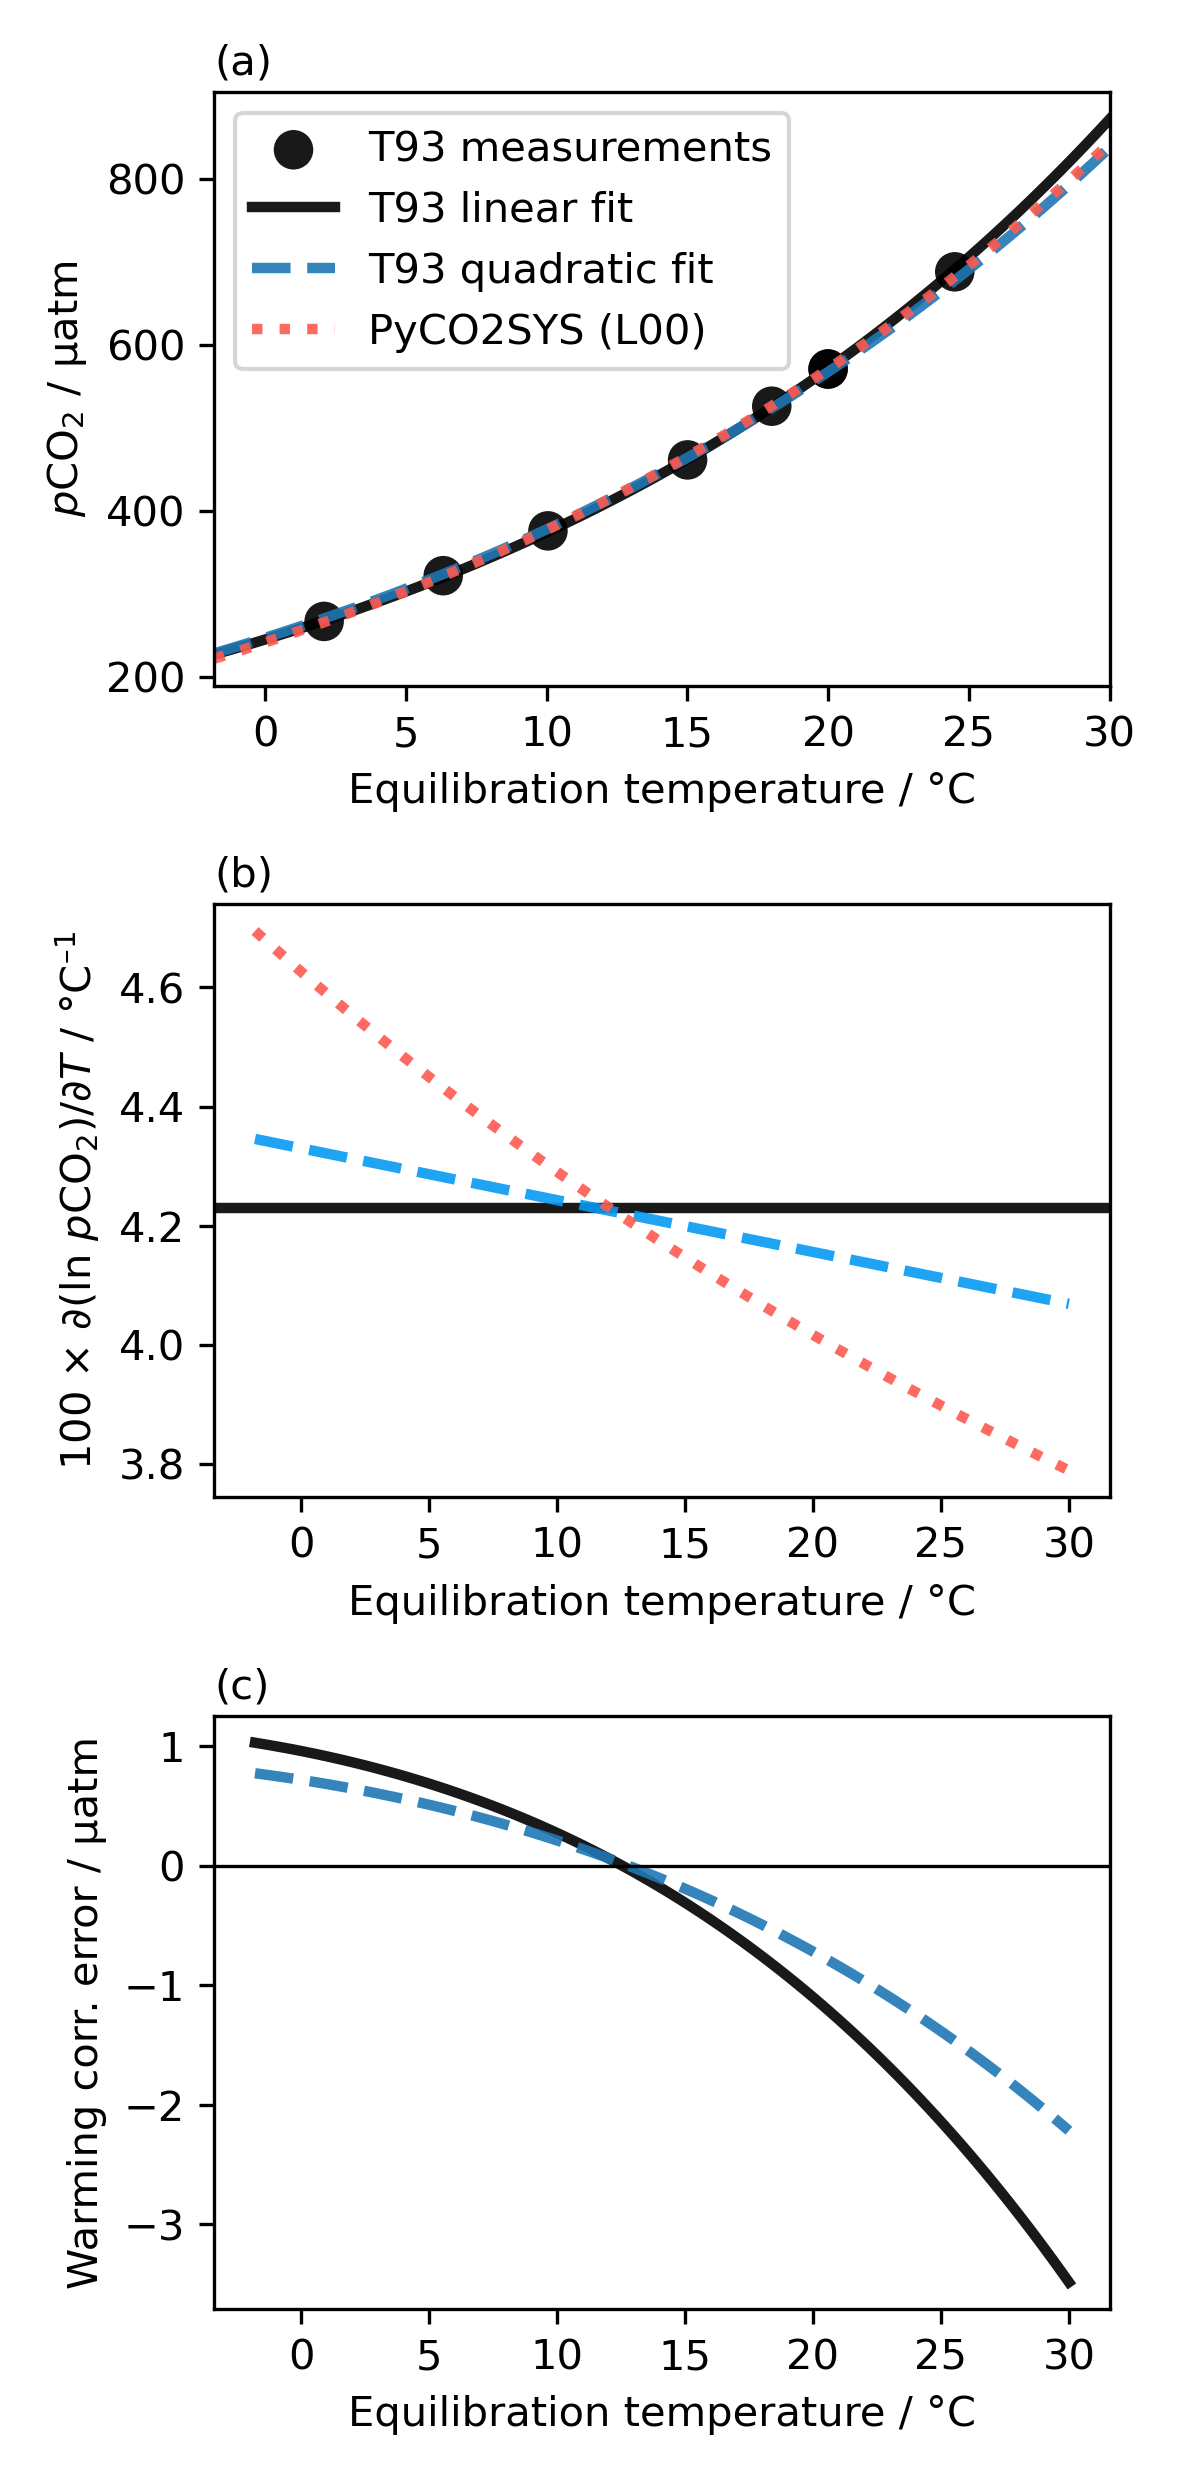
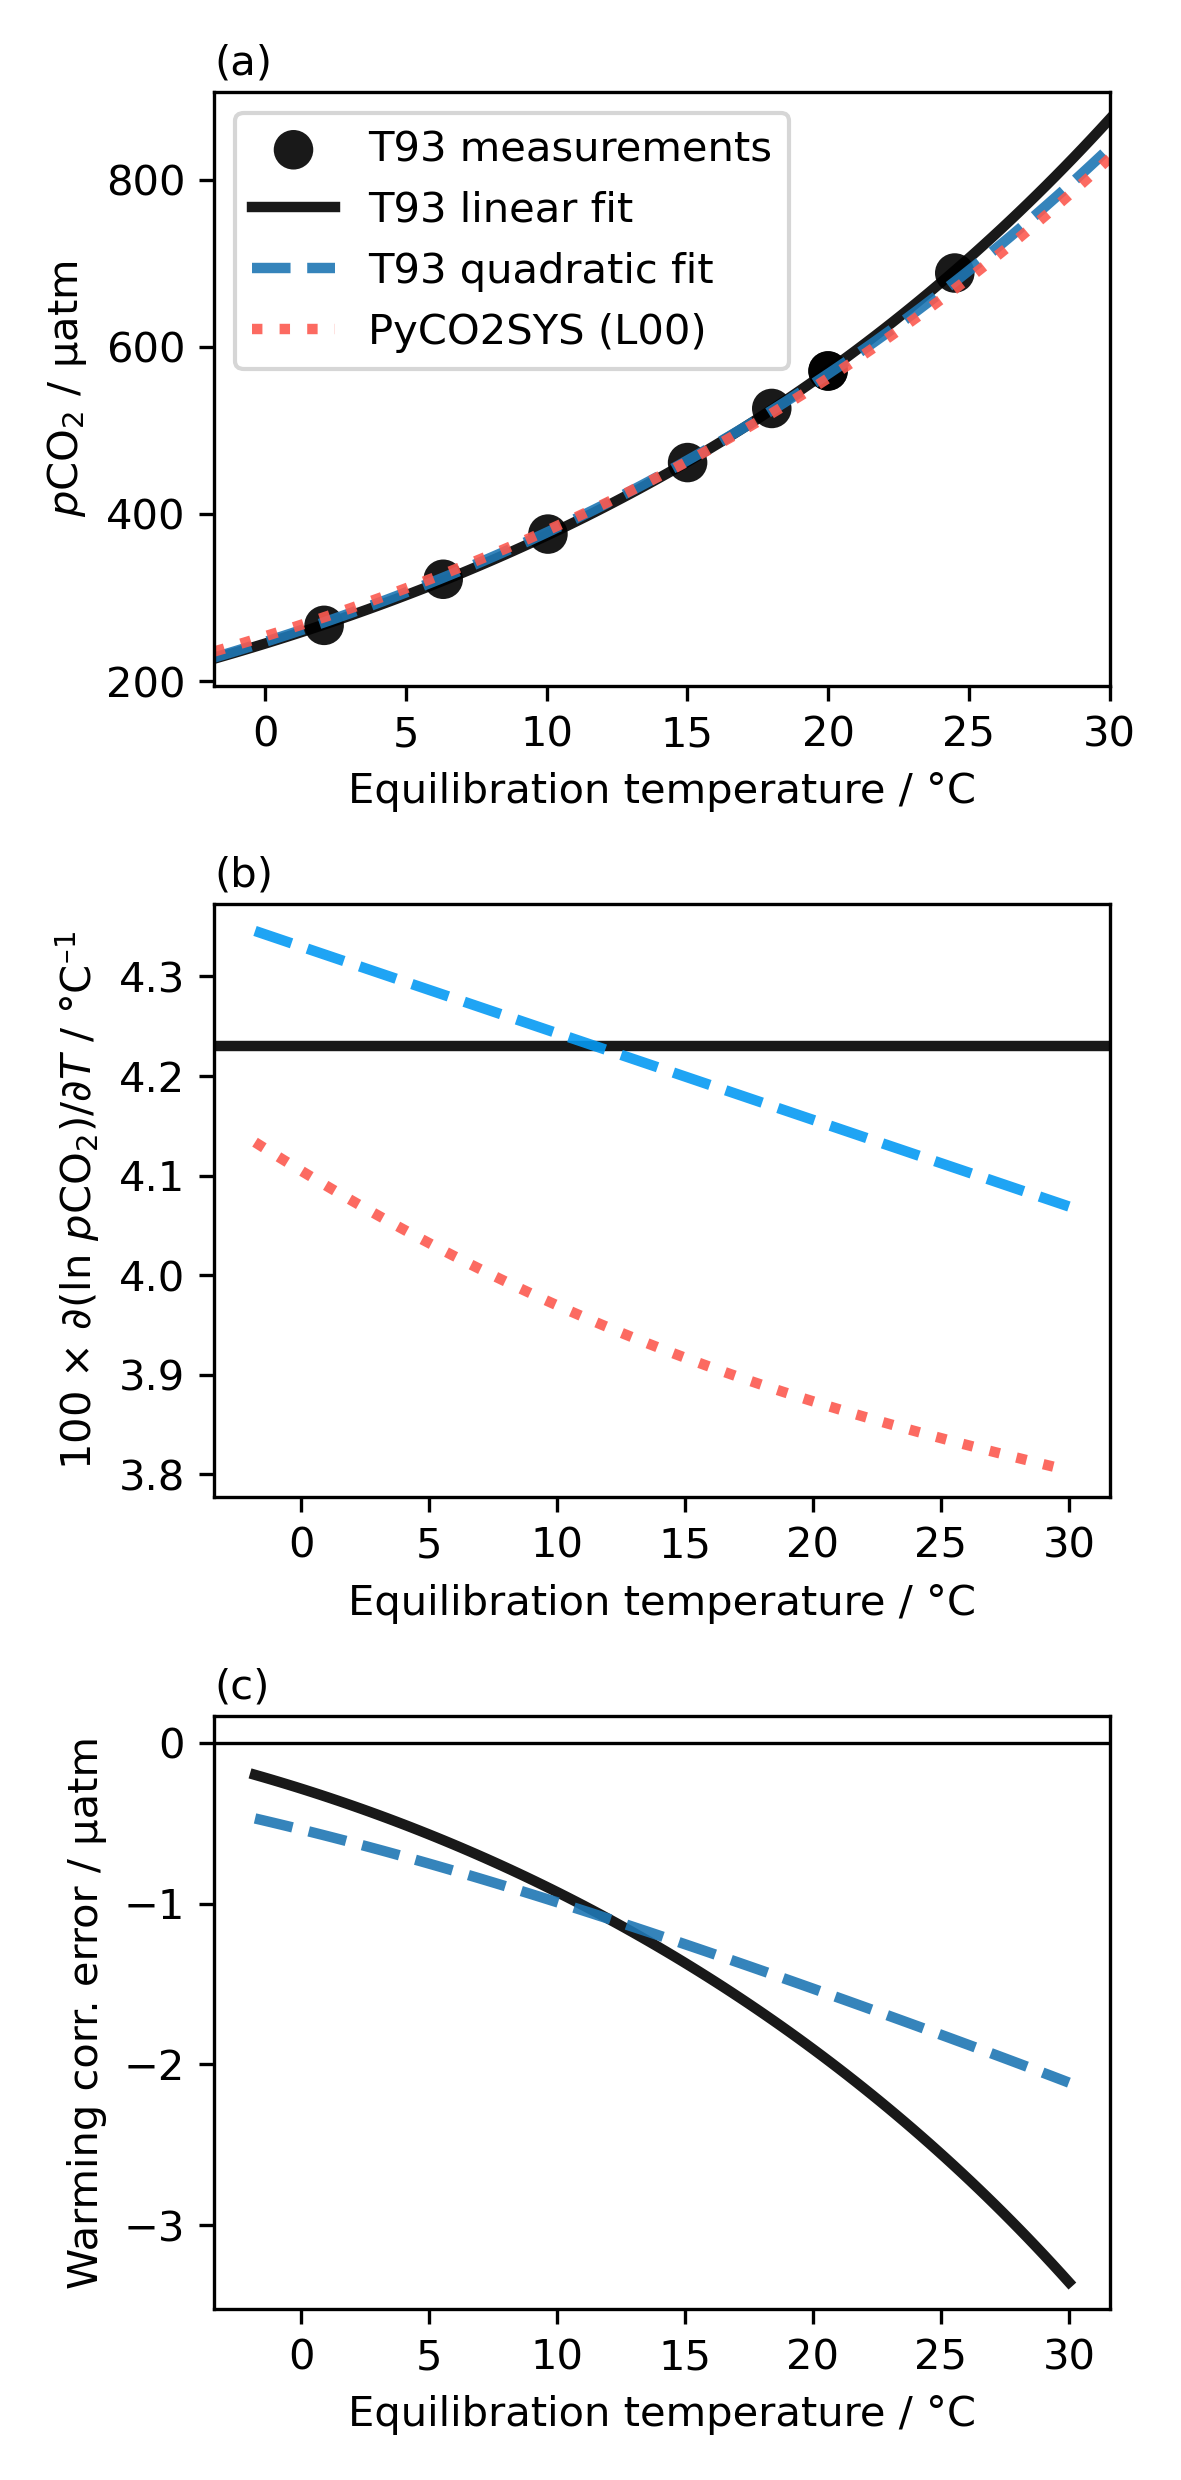
Updates from Fri 17 Nov

diff --git a/f03_glodap.py b/f03_glodap.py
@@ -9,6 +9,12 @@ from matplotlib import pyplot as plt
 from cartopy import crs as ccrs, feature as cfeature
 import xarray as xr
 import numpy as np
+from scipy.stats import linregress
+from scipy.optimize import least_squares
+from takahashi93 import temperature as ex_temperature
+
+opt_k_carbonic = 1
+opt_total_borate = 1
 
 # Import the GLODAP gridded dataset (Lauvset et al., 2016)
 gpath = "/Users/matthew/Documents/data/GLODAP/GLODAPv2.2016b_MappedClimatologies/"
@@ -28,6 +34,10 @@ grads = [
     # "k_silicate",
 ]
 
+glodap_i = glodap.copy()
+glodap_i["silicate"] = glodap.silicate.interpolate_na("lat").interpolate_na("lon")
+glodap_i["PO4"] = glodap.PO4.interpolate_na("lat").interpolate_na("lon")
+
 # Calculate surface field of dlnpCO2/dT
 results = pyco2.sys(
     par1=glodap.isel(depth_surface=0).TAlk.data,
@@ -36,14 +46,10 @@ results = pyco2.sys(
     par2_type=2,
     temperature=glodap.isel(depth_surface=0).temperature.data,
     salinity=glodap.isel(depth_surface=0).salinity.data,
-    total_silicate=glodap.isel(depth_surface=0)
-    .interpolate_na("lat")
-    .interpolate_na("lon")
-    .silicate.data,
-    total_phosphate=glodap.isel(depth_surface=0)
-    .interpolate_na("lat")
-    .interpolate_na("lon")
-    .PO4.data,
+    total_silicate=glodap_i.isel(depth_surface=0).silicate.data,
+    total_phosphate=glodap_i.isel(depth_surface=0).PO4.data,
+    opt_k_carbonic=opt_k_carbonic,
+    opt_total_borate=opt_total_borate,
     grads_of=["pCO2", *grads],
     grads_wrt=["temperature", *grads],
 )
@@ -72,28 +78,59 @@ p95_k_percent = {
     for k, v in pCO2_wf_percent.items()
 }
 
+# %% Simulate T93 experiment across the globe
+fits_linear = np.full_like(glodap.dlnpCO2_dT.data, np.nan)
+fits_poly_const = np.full_like(glodap.dlnpCO2_dT.data, np.nan)
+fits_poly_Tcoeff = np.full_like(glodap.dlnpCO2_dT.data, np.nan)
+ex_pCO2 = np.full((*glodap.dlnpCO2_dT.shape, ex_temperature.size), np.nan)
+for i, t in enumerate(ex_temperature):
+    print(i)
+    ex_pCO2[:, :, i] = pyco2.sys(
+        par1=glodap.isel(depth_surface=0).TAlk.data,
+        par2=glodap.isel(depth_surface=0).TCO2.data,
+        par1_type=1,
+        par2_type=2,
+        temperature=t,
+        salinity=glodap.isel(depth_surface=0).salinity.data,
+        total_silicate=glodap_i.isel(depth_surface=0).silicate.data,
+        total_phosphate=glodap_i.isel(depth_surface=0).PO4.data,
+        opt_k_carbonic=opt_k_carbonic,
+        opt_total_borate=opt_total_borate,
+    )["pCO2"]
+for i in range(180):
+    print(i)
+    for j in range(360):
+        if ~np.isnan(ex_pCO2[i, j, 0]):
+            ex_lnpCO2 = np.log(ex_pCO2[i, j, :])
+            ex_linear = linregress(ex_temperature, ex_lnpCO2)
+            fits_linear[i, j] = ex_linear.slope
+            ex_poly = np.polyfit(ex_temperature, ex_lnpCO2, 2)
+            fits_poly_const[i, j], fits_poly_Tcoeff[i, j] = ex_poly[:2]
+glodap["fits_linear"] = (("lat", "lon"), fits_linear * 100)
+
 # %% Visualise - map
-fig, ax = plt.subplots(
-    dpi=300, subplot_kw={"projection": ccrs.Robinson(central_longitude=205)}
-)
-fm = glodap.dlnpCO2_dT.plot(
-    ax=ax, transform=ccrs.PlateCarree(), add_colorbar=False, vmin=3.95, vmax=4.7
-)
-plt.colorbar(
-    fm,
-    location="bottom",
-    label="100 × ∂(ln $p$CO$_2$)/∂$T$ / °C$^{–1}$",
-    pad=0.05,
-    aspect=20,
-    fraction=0.05,
-    extend="both",
-)
-ax.add_feature(
-    cfeature.NaturalEarthFeature("physical", "land", "50m"),
-    facecolor=0.1 * np.array([1, 1, 1]),
-)
-fig.tight_layout()
-fig.savefig("figures/f03_map.png")
+for fvar in ["dlnpCO2_dT", "fits_linear"]:
+    fig, ax = plt.subplots(
+        dpi=300, subplot_kw={"projection": ccrs.Robinson(central_longitude=205)}
+    )
+    fm = glodap[fvar].plot(
+        ax=ax, transform=ccrs.PlateCarree(), add_colorbar=False, vmin=3.95, vmax=4.7
+    )
+    plt.colorbar(
+        fm,
+        location="bottom",
+        label="100 × ∂(ln $p$CO$_2$)/∂$T$ / °C$^{–1}$",
+        pad=0.05,
+        aspect=20,
+        fraction=0.05,
+        extend="both",
+    )
+    ax.add_feature(
+        cfeature.NaturalEarthFeature("physical", "land", "50m"),
+        facecolor=0.1 * np.array([1, 1, 1]),
+    )
+    fig.tight_layout()
+    fig.savefig("figures/f03_map_{}.png".format(fvar))
 
 # %% Visualise - histogram
 fig, ax = plt.subplots(dpi=300, figsize=(12 / 2.54, 8 / 2.54))
@@ -101,8 +138,23 @@ ax.hist(
     glodap.dlnpCO2_dT.data.ravel(),
     bins=np.arange(3.5, 5, 0.01),
     facecolor="xkcd:midnight",
+    label="PyCO2SYS",
 )
-ax.set_xlim((glodap.dlnpCO2_dT.min(), glodap.dlnpCO2_dT.max()))
+ax.hist(
+    glodap.fits_linear.data.ravel(),
+    bins=np.arange(3.5, 5, 0.01),
+    facecolor="xkcd:ocean blue",
+    alpha=0.85,
+    label="T93 experiment",
+)
+ax.legend()
+ax.set_xlim(
+    (
+        min(glodap.fits_linear.min(), glodap.dlnpCO2_dT.min()),
+        max(glodap.fits_linear.max(), glodap.dlnpCO2_dT.max()),
+    )
+)
+ax.set_xlim((3.8, 4.8))
 ax.set_ylabel("Frequency")
 ax.set_xlabel("100 × ∂(ln $p$CO$_2$)/∂$T$ / °C$^{–1}$")
 fig.tight_layout()
@@ -156,3 +208,49 @@ ax.set_ylabel("Contribution to ∂(ln $p$CO$_2$)/∂$T$ / %")
 ax.tick_params(top=True, labeltop=True)
 fig.tight_layout()
 fig.savefig("figures/f03_violins.png")
+
+# %% Temperature relationship
+fx = glodap.isel(depth_surface=0).temperature.data.ravel()
+fy = glodap.dlnpCO2_dT.data.ravel()
+L = ~np.isnan(fx) & ~np.isnan(fy)
+fx, fy = fx[L], fy[L]
+
+tfit = np.polyfit(fx, fy, 3)
+# tfit = array([-3.27613909e-06,  4.90600047e-04, -3.29258551e-02,  4.58750033e+00])
+fvx = np.linspace(np.min(fx), np.max(fx), num=500)
+fvy = np.polyval(tfit, fvx)
+
+
+def sensitivity(coeffs, temperature):
+    a, b, c, d = coeffs
+    return a + b * np.exp(c * (temperature + d))
+
+
+def _lsqfun_sensitivity(coeffs, temperature, dlnpCO2_dT):
+    return sensitivity(coeffs, temperature) - dlnpCO2_dT
+
+
+opt_result = least_squares(_lsqfun_sensitivity, [0, 1, -1, 0], args=(fx, fy))
+# opt_result['x'] = array([ 3.57413027,  1.32214733,  0.03284989, -8.09607568])
+fvy_exp = sensitivity(opt_result["x"], fvx)
+
+# Visualise
+fig, ax = plt.subplots(dpi=300)
+ax.scatter(
+    fx,
+    fy,
+    c="xkcd:midnight",
+    s=2,
+    edgecolor="none",
+    alpha=0.2,
+)
+# ax.plot(fvx, fvy)
+ax.plot(fvx, fvy_exp, c="xkcd:strawberry")
+ax.set_xlabel("Temperature / °C")
+ax.set_ylabel("∂(ln $p$CO$_2$)/∂$T$ / °C$^{–1}$")
+# ax.scatter(
+#     glodap.isel(depth_surface=0).temperature.data.ravel(),
+#     glodap.fits_linear.data.ravel(),
+# )
+fig.tight_layout()
+fig.savefig("figures/f03_temperature_fit.png")

diff --git a/takahashi93.py b/takahashi93.py
@@ -18,7 +18,7 @@ tak93 = dict(
 )
 
 
-def get_alkalinity(opt_k_carbonic):
+def get_alkalinity(opt_k_carbonic, opt_total_borate):
     # Determine alkalinity in the experiment
     r = pyco2.sys(
         par1=dic,
@@ -27,6 +27,7 @@ def get_alkalinity(opt_k_carbonic):
         par2_type=4,
         temperature=temperature,
         opt_k_carbonic=opt_k_carbonic,
+        opt_total_borate=opt_total_borate,
         **tak93,
     )
     alkalinity = np.mean(r["alkalinity"])

diff --git a/f01_experiment.py b/f01_experiment.py
@@ -9,8 +9,9 @@ import numpy as np
 from matplotlib import pyplot as plt
 from takahashi93 import get_alkalinity, dic, tak93, pCO2, temperature
 
-opt_k_carbonic = 10
-alkalinity, alkalinity_std = get_alkalinity(opt_k_carbonic)
+opt_k_carbonic = 17
+opt_total_borate = 1
+alkalinity, alkalinity_std = get_alkalinity(opt_k_carbonic, opt_total_borate)
 
 # Calculate pCO2 variation with temperature with different approaches
 v_temperature = np.linspace(-1.8, 30, num=100)

diff --git a/f02_components.py b/f02_components.py
@@ -9,7 +9,8 @@ from matplotlib import pyplot as plt
 from takahashi93 import get_alkalinity, dic, tak93
 
 opt_k_carbonic = 10
-alkalinity, alkalinity_std = get_alkalinity(opt_k_carbonic)
+opt_total_borate = 1
+alkalinity, alkalinity_std = get_alkalinity(opt_k_carbonic, opt_total_borate)
 
 # Calculate components of dlnpCO2/dT using forward finite difference derivatives
 grads = [
